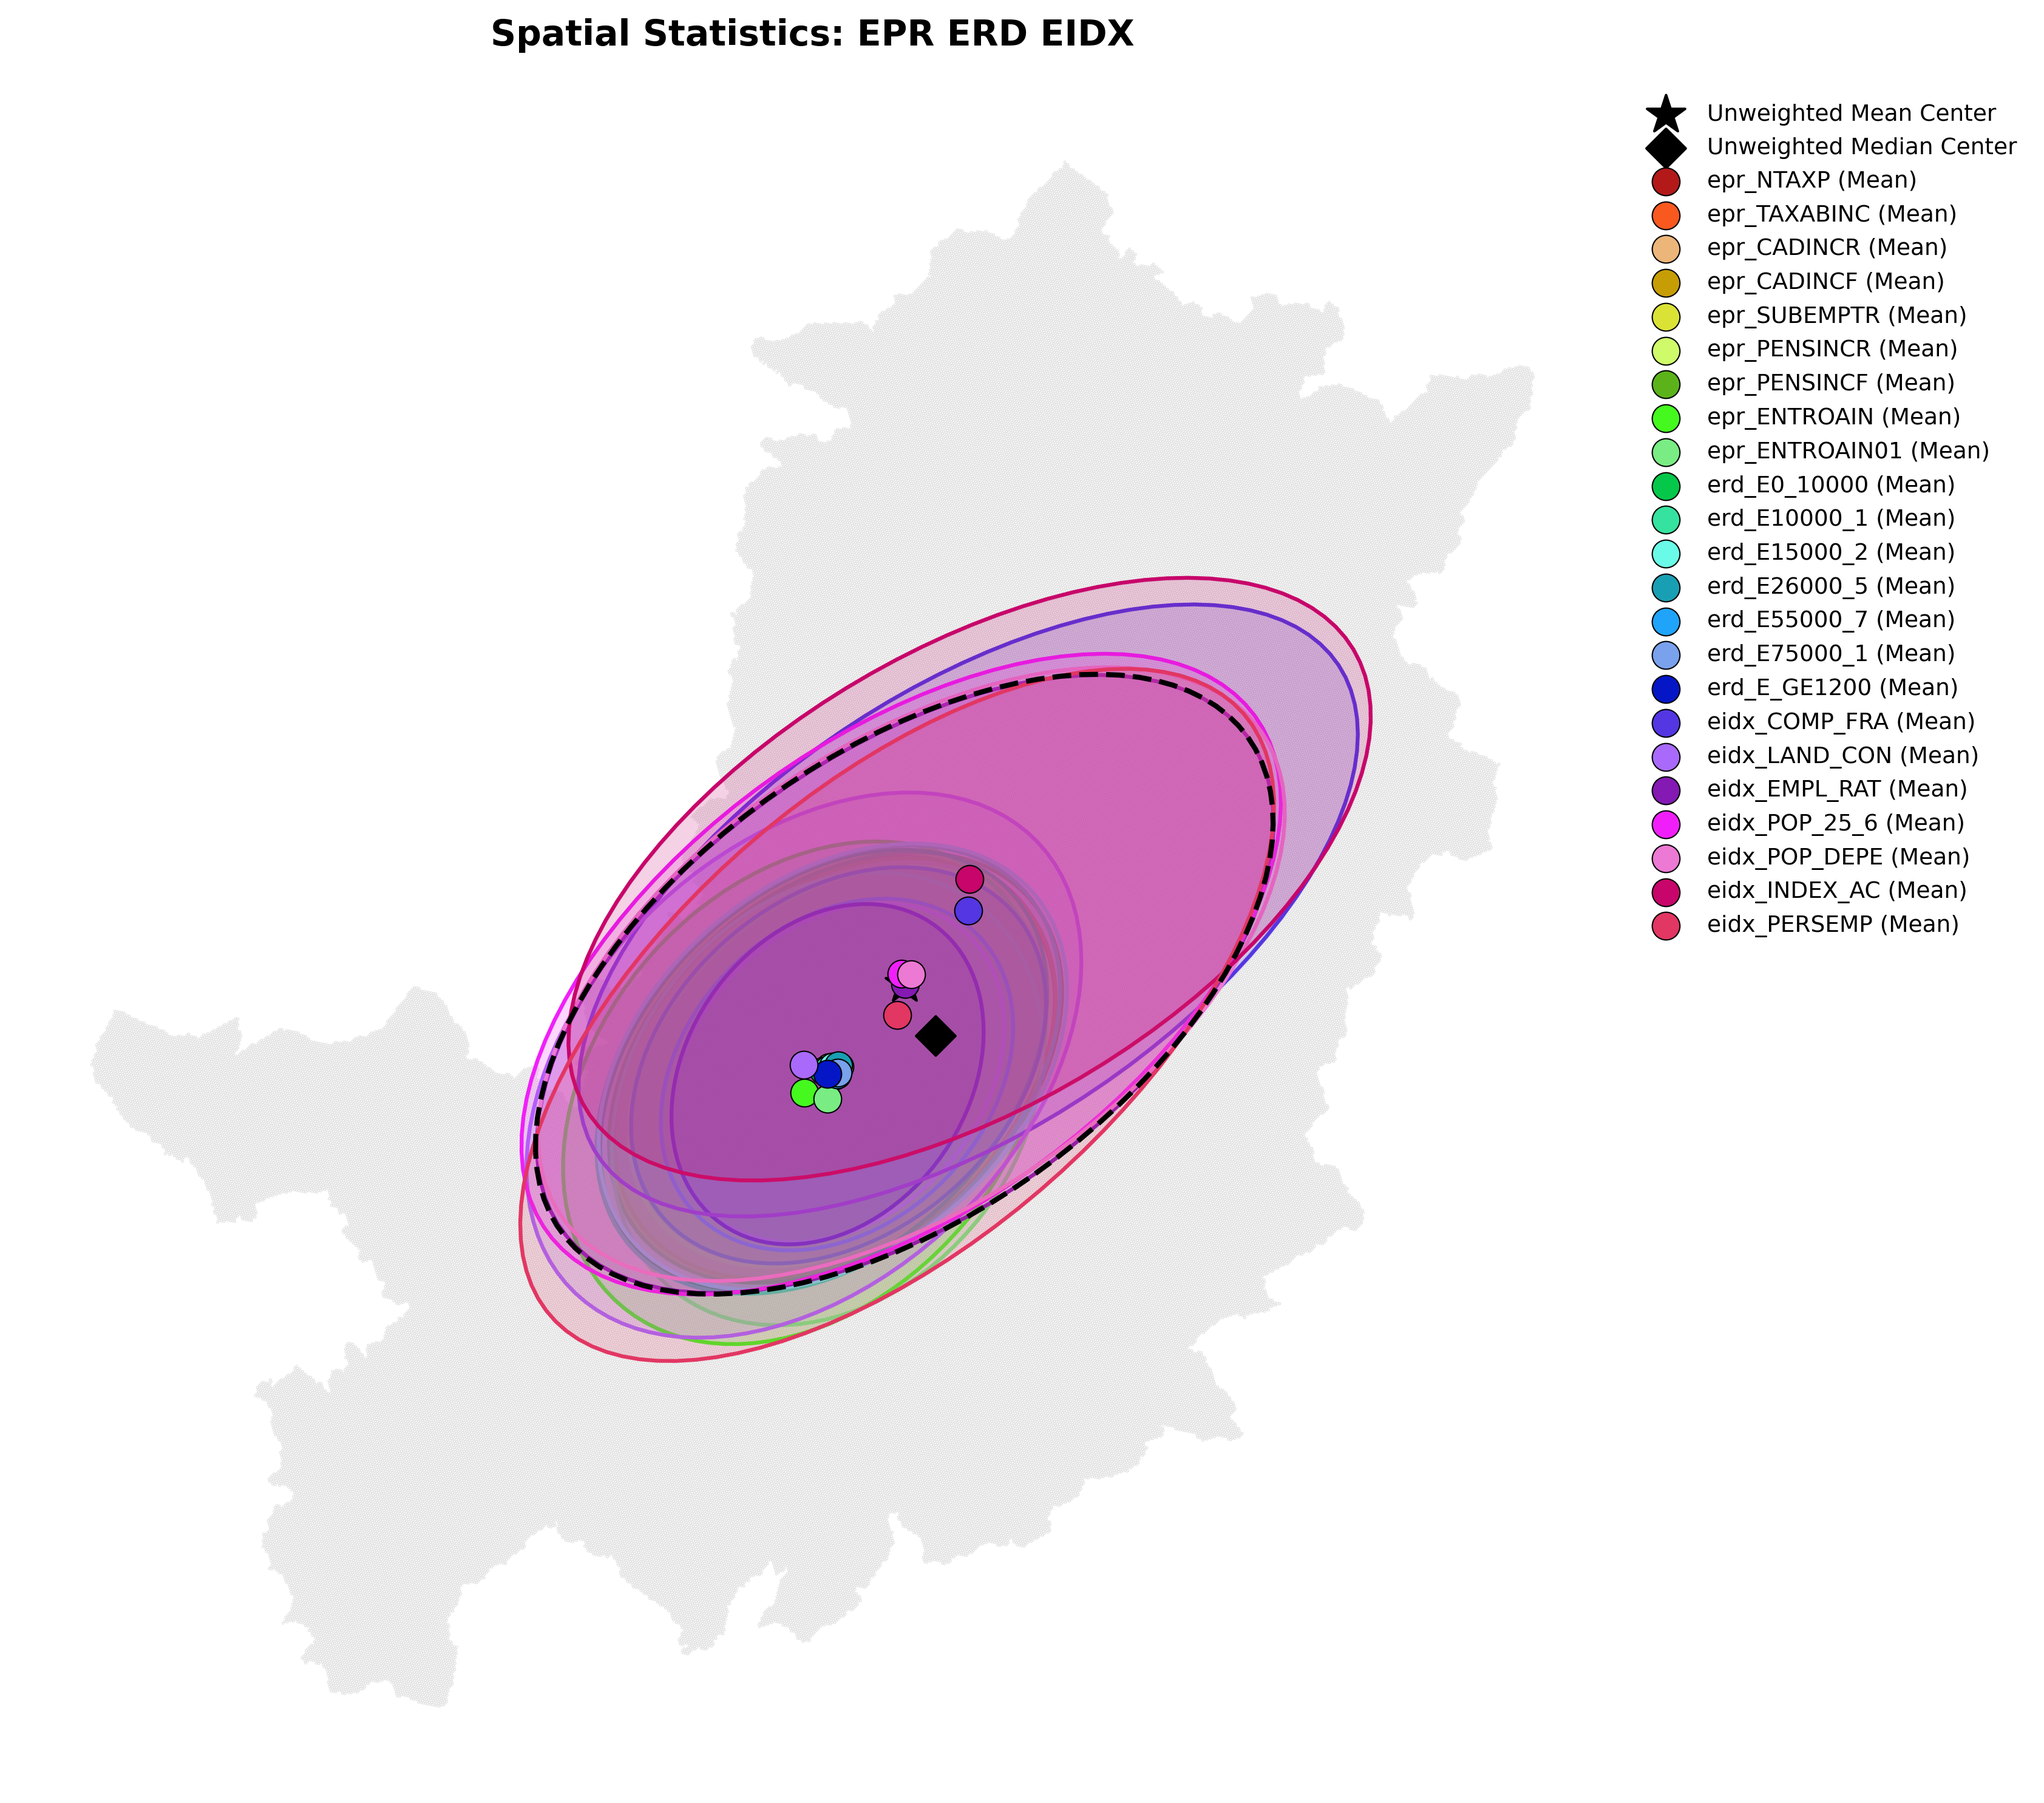
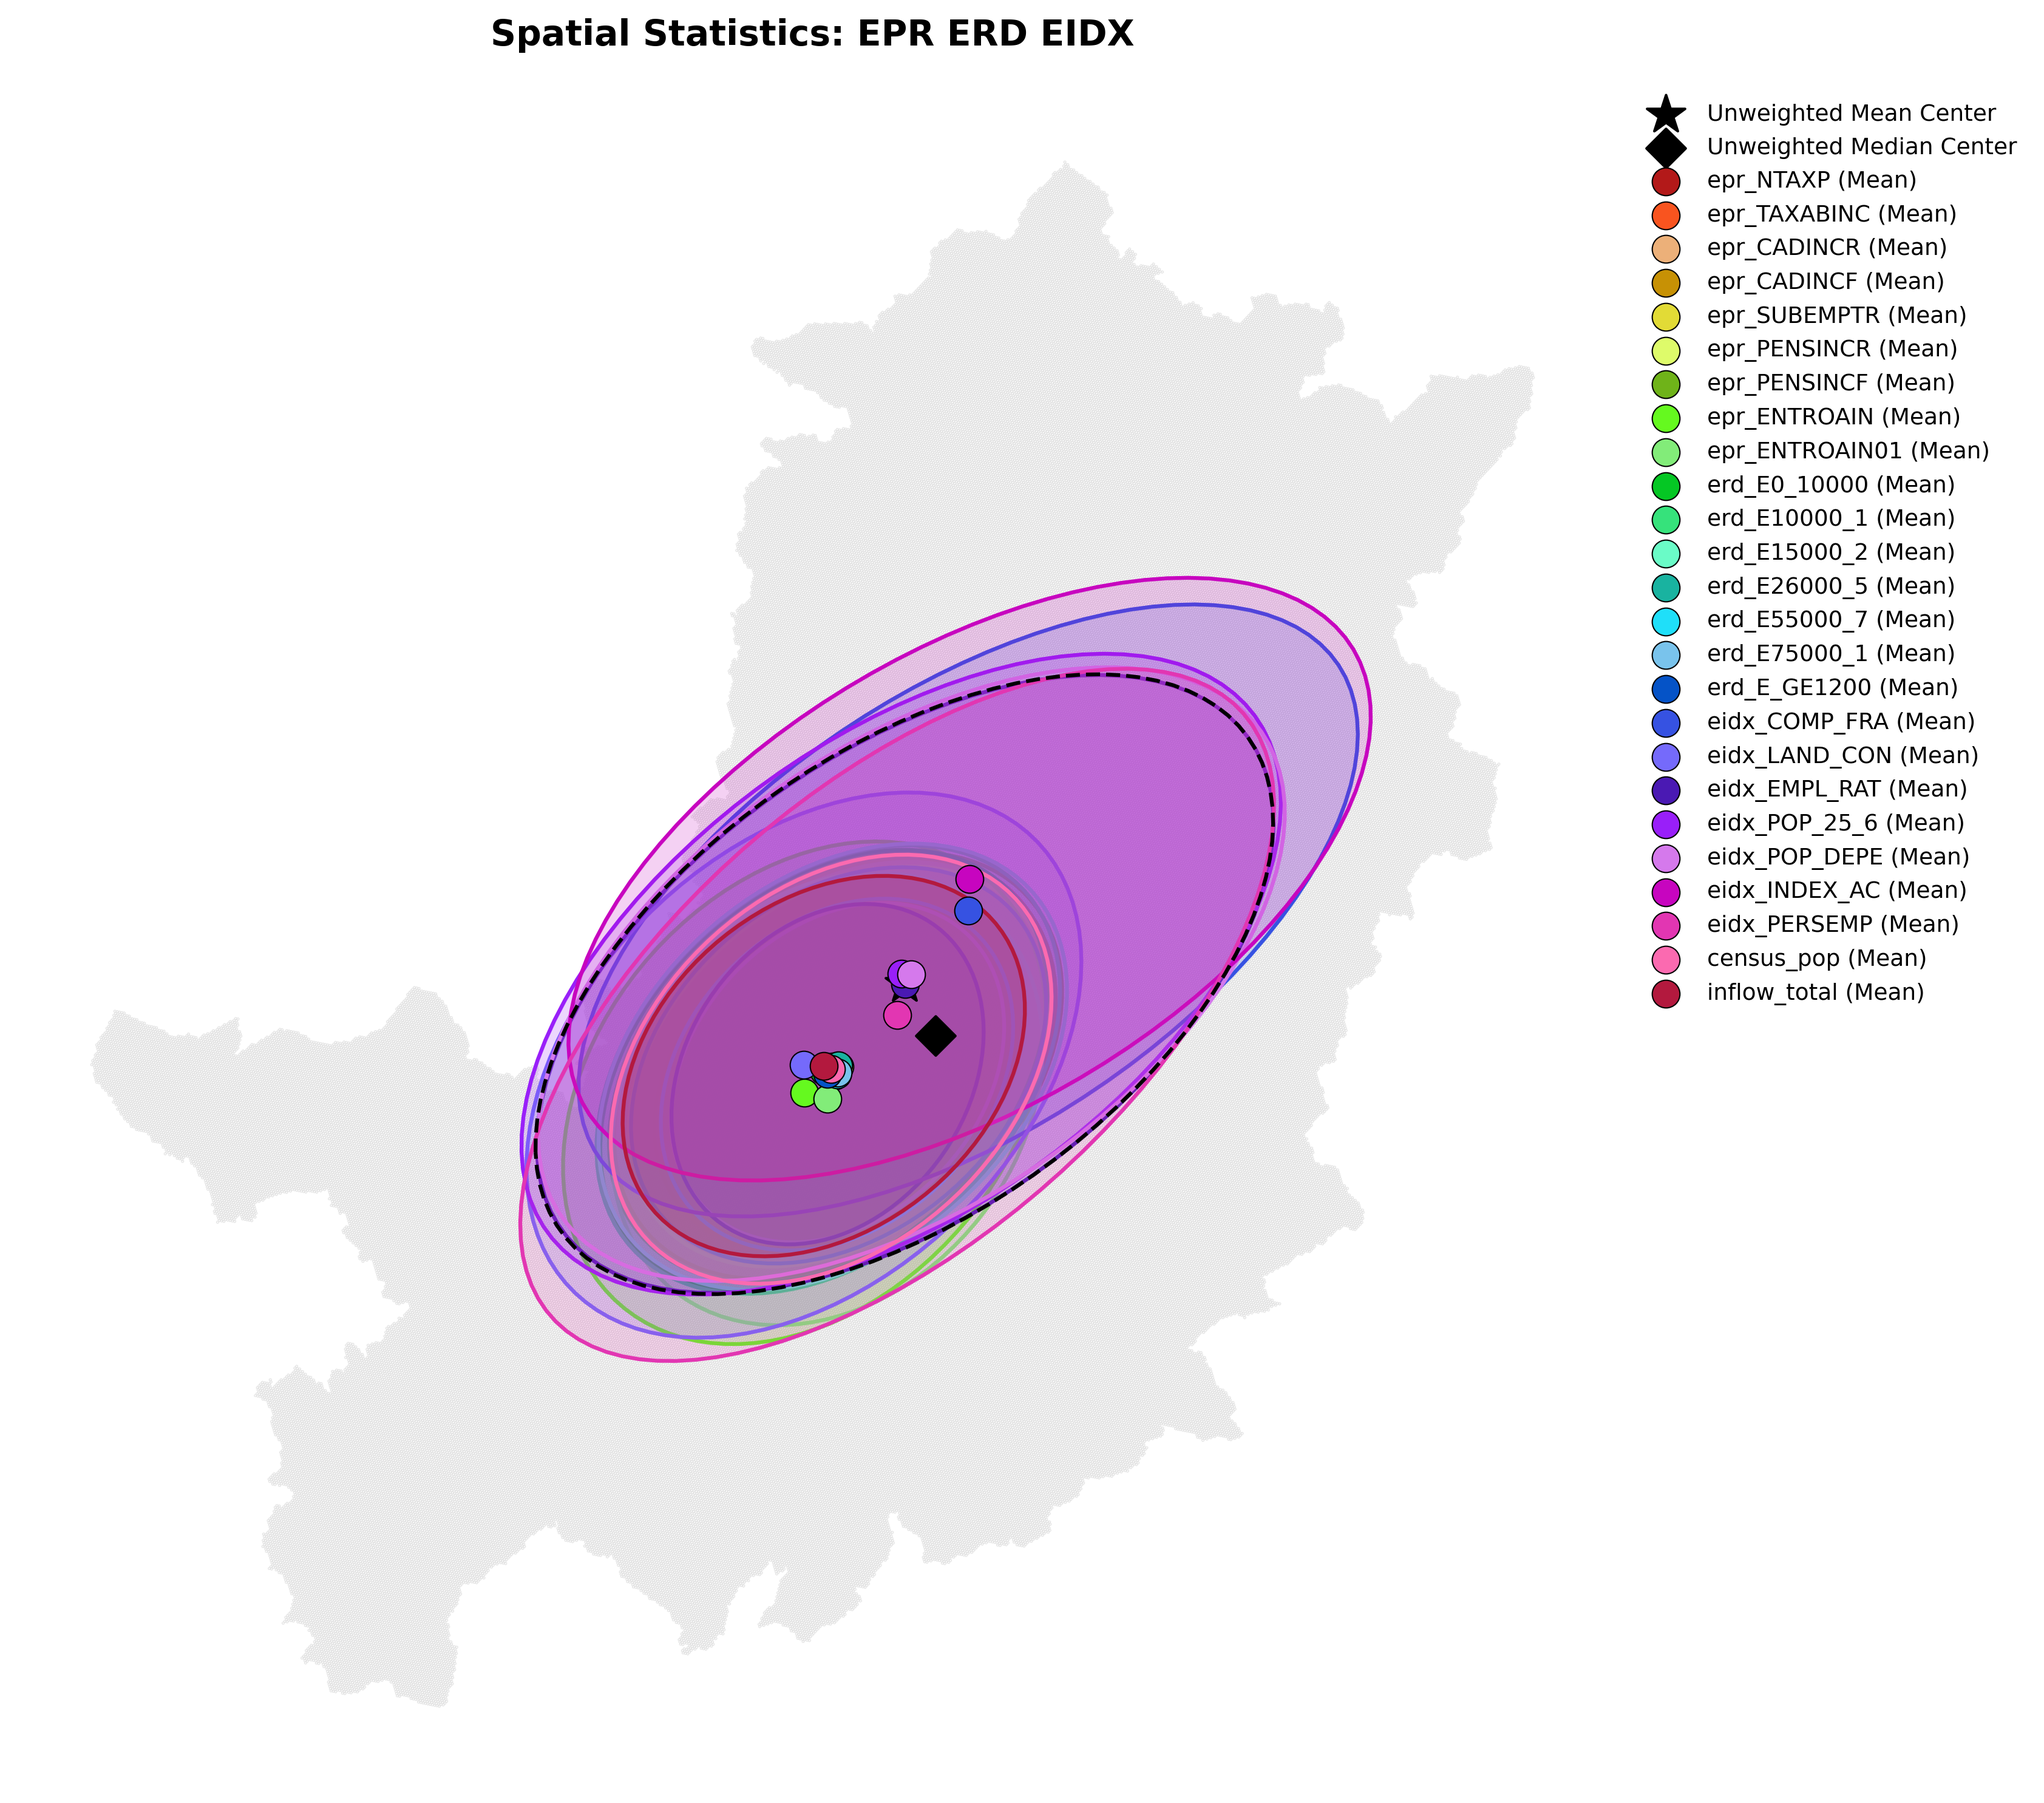
small updates on summary stats

diff --git a/3_Implementation/1_Data/2_Transformation/summary_statistics/py/0_summary_stats.py b/3_Implementation/1_Data/2_Transformation/summary_statistics/py/0_summary_stats.py
@@ -123,8 +123,16 @@ def compute_standard_deviational_ellipse(centroids, weights=None):
 def create_ellipse_geometry(
     center_x, center_y, semi_major, semi_minor, rotation_deg, num_points=100
 ):
-    """Generates a Shapely Polygon representing a Standard Deviational Ellipse."""
-    if np.isnan(center_x) or np.isnan(semi_major) or semi_major == 0 or semi_minor == 0:
+    """Generates a Shapely Polygon representing a Standard Deviational Ellipse strictly checking for invalid geometries."""
+    if (
+        np.isnan(center_x)
+        or np.isnan(center_y)
+        or np.isnan(semi_major)
+        or np.isnan(semi_minor)
+        or np.isnan(rotation_deg)
+        or semi_major <= 1e-6
+        or semi_minor <= 1e-6
+    ):
         return None
 
     angles = np.linspace(0, 2 * np.pi, num_points)
@@ -135,6 +143,9 @@ def create_ellipse_geometry(
     scaled_poly = scale(base_poly, xfact=semi_major, yfact=semi_minor)
     rotated_poly = rotate(scaled_poly, rotation_deg, origin=(0, 0))
     ellipse_poly = translate(rotated_poly, xoff=center_x, yoff=center_y)
+
+    if not ellipse_poly.is_valid or ellipse_poly.is_empty:
+        return None
 
     return ellipse_poly
 
@@ -148,7 +159,7 @@ def save_batched_spatial_maps(
     """Generates separate static figures with unique color maps per variable."""
     
     batch_definitions = {
-        "spatial_map_epr_erd_eidx.png": lambda v: any(k in v.lower() for k in ["epr", "erd", "eidx"]),
+        "spatial_map_epr_erd_eidx.png": lambda v: any(k in v.lower() for k in ["epr", "erd", "eidx", "census", "inflow"]),
         "spatial_map_idw_nearest.png": lambda v: any(k in v.lower() for k in ["idw", "nearest"]),
     }
 
@@ -167,9 +178,10 @@ def save_batched_spatial_maps(
             batches[file_name] = matched
             assigned_vars.update(matched["variable"].tolist())
 
+    # Assign all remaining unmapped variables to hydrogeopedological batch
     rest_df = weighted_df[~weighted_df["variable"].isin(assigned_vars)]
     if not rest_df.empty:
-        batches["spatial_map_other_variables.png"] = rest_df
+        batches["spatial_map_hydrogeopedological_variables.png"] = rest_df
 
     for file_name, batch_df in batches.items():
         fig, ax = plt.subplots(figsize=(12, 10))
@@ -210,13 +222,13 @@ def save_batched_spatial_maps(
             unweighted_row["sde_semi_minor_axis"],
             unweighted_row["sde_rotation_deg"],
         )
-        if unweighted_ellipse:
+        if unweighted_ellipse is not None:
             gpd.GeoSeries([unweighted_ellipse]).plot(
                 ax=ax,
                 facecolor="none",
                 edgecolor="black",
                 linestyle="--",
-                linewidth=2,
+                linewidth=1.5,
                 zorder=5,
                 label="Unweighted SDE",
             )
@@ -229,7 +241,7 @@ def save_batched_spatial_maps(
             color = unique_colors[idx]
 
             # Weighted Mean Center
-            if not np.isnan(row["mean_center_x"]):
+            if not np.isnan(row["mean_center_x"]) and not np.isnan(row["mean_center_y"]):
                 ax.scatter(
                     row["mean_center_x"],
                     row["mean_center_y"],
@@ -250,7 +262,7 @@ def save_batched_spatial_maps(
                 row["sde_semi_minor_axis"],
                 row["sde_rotation_deg"],
             )
-            if weighted_ellipse:
+            if weighted_ellipse is not None:
                 gpd.GeoSeries([weighted_ellipse]).plot(
                     ax=ax,
                     facecolor=color,
@@ -288,7 +300,7 @@ def save_batched_spatial_maps(
         output_file = output_dir / file_name
         plt.tight_layout()
         plt.savefig(output_file, dpi=300, bbox_inches="tight")
-        plt.close()
+        plt.close(fig)
         print(f"Batch map saved to: {output_file}")
 
 
